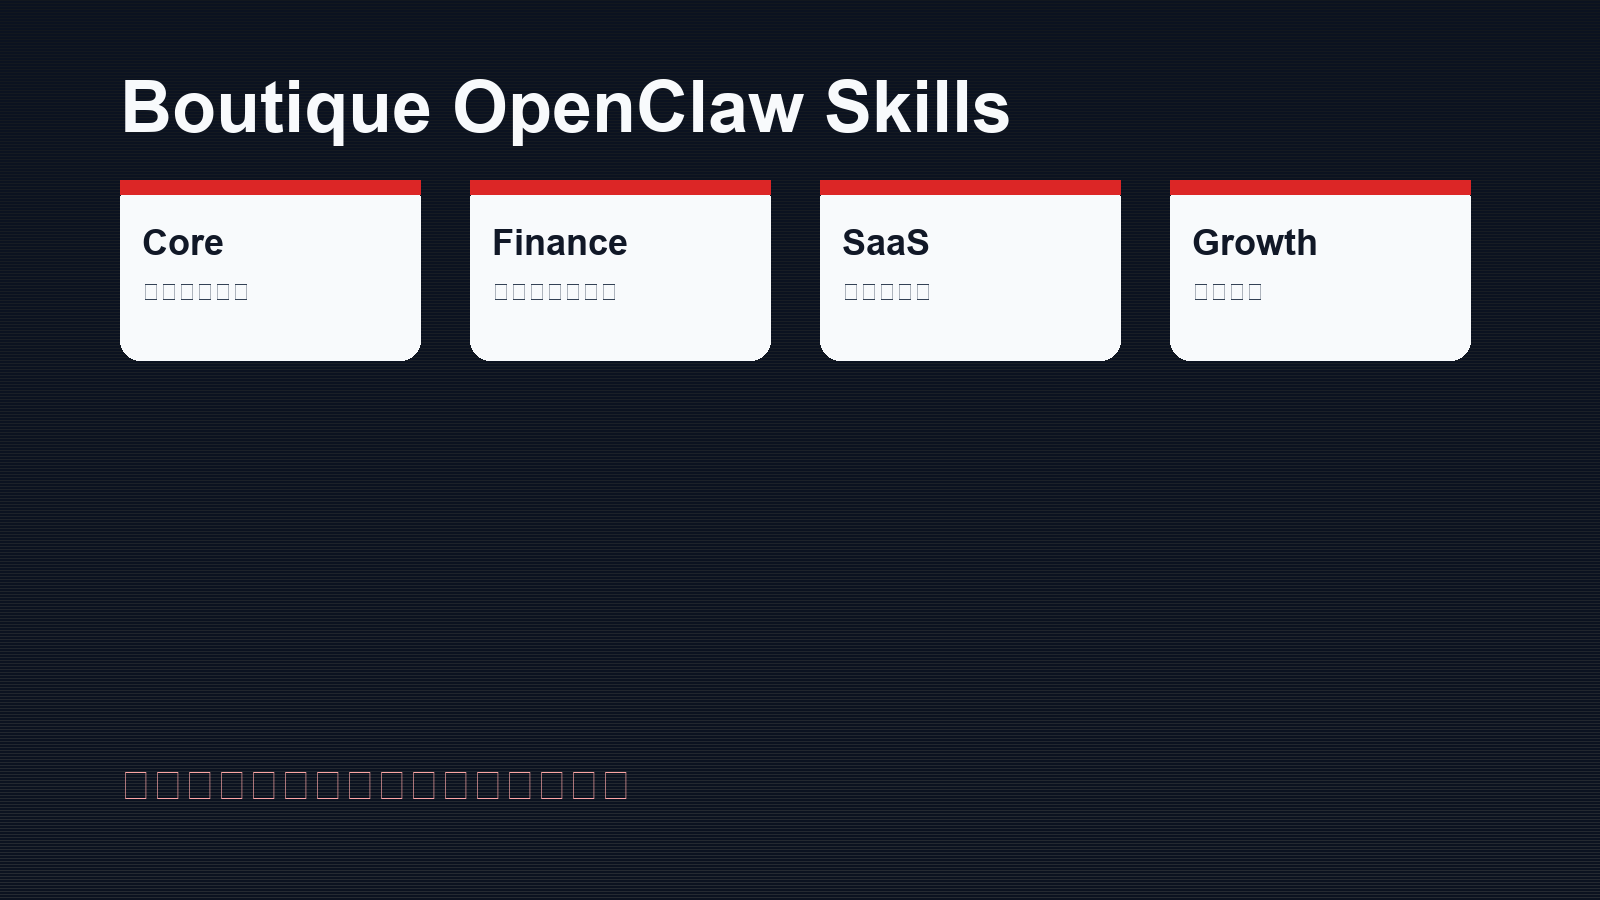
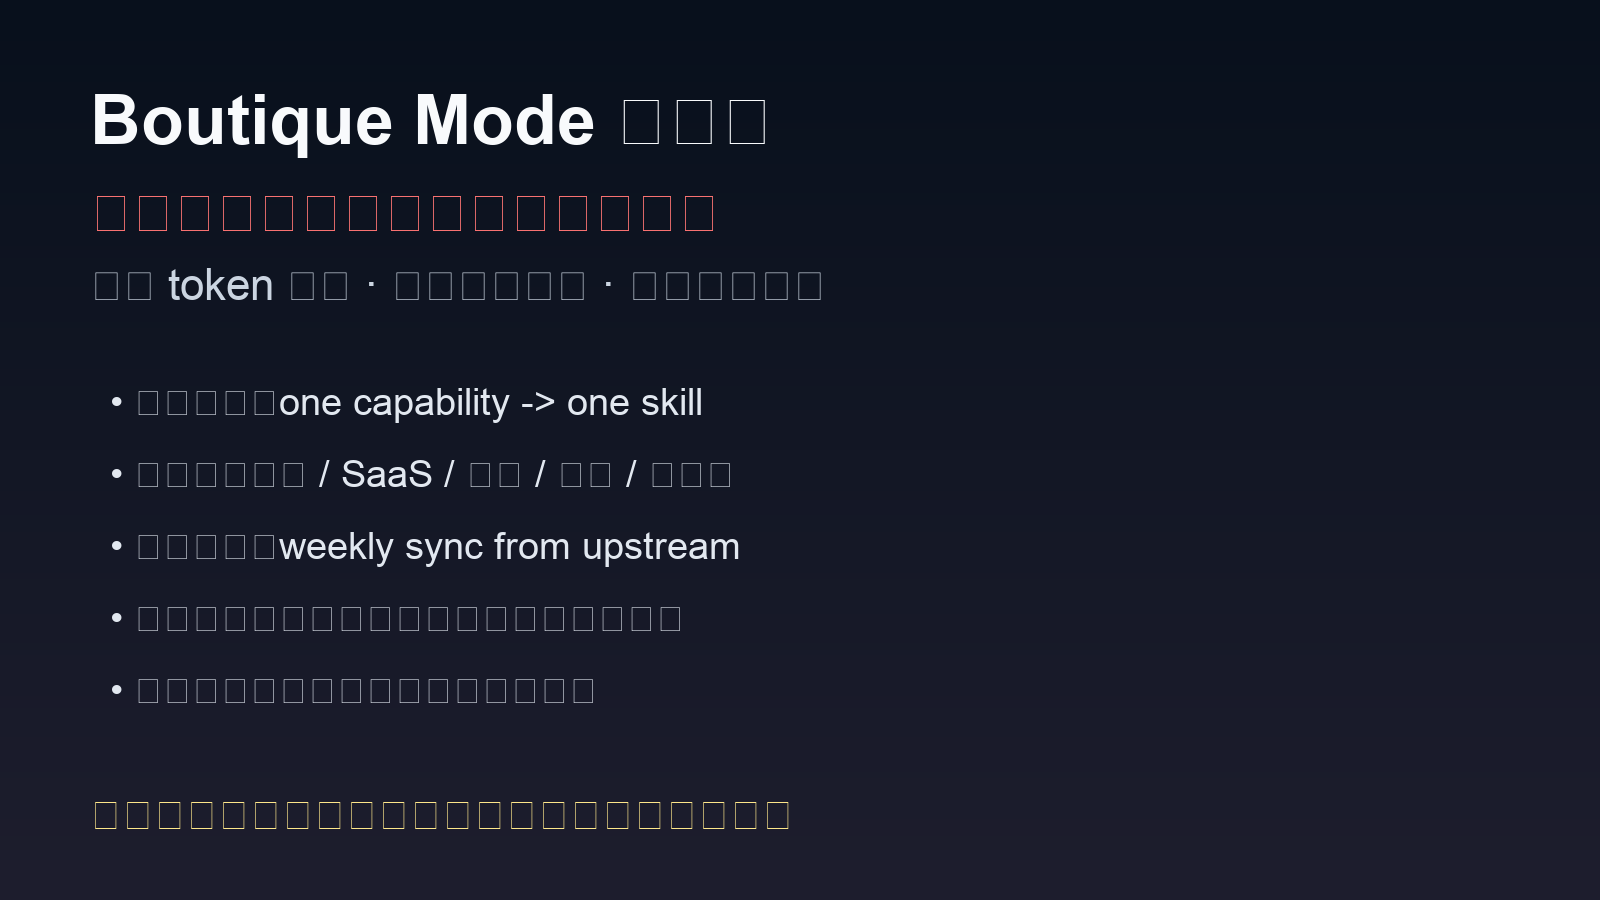
design: add pixel boutique+lobster branding and README quick nav

diff --git a/scripts/generate_assets.py b/scripts/generate_assets.py
@@ -7,10 +7,16 @@ ASSETS = ROOT / "assets"
 ASSETS.mkdir(parents=True, exist_ok=True)
 
 
-def font(size: int):
-    candidates = [
-        "/System/Library/Fonts/Supplemental/Arial Bold.ttf",
+def pick_font(size: int, bold: bool = False):
+    candidates = []
+    if bold:
+        candidates += [
+            "/System/Library/Fonts/Supplemental/Arial Bold.ttf",
+            "/System/Library/Fonts/Supplemental/Helvetica.ttc",
+        ]
+    candidates += [
         "/System/Library/Fonts/Supplemental/Arial.ttf",
+        "/System/Library/Fonts/Supplemental/Menlo.ttc",
         "/System/Library/Fonts/SFNS.ttf",
     ]
     for c in candidates:
@@ -23,79 +29,176 @@ def font(size: int):
     return ImageFont.load_default()
 
 
-def draw_logo_png():
-    w, h = 1200, 420
-    img = Image.new("RGB", (w, h), "#0f172a")
+def draw_pixels(draw: ImageDraw.ImageDraw, ox: int, oy: int, scale: int, cells, color: str):
+    for x, y in cells:
+        draw.rectangle((ox + x * scale, oy + y * scale, ox + (x + 1) * scale - 1, oy + (y + 1) * scale - 1), fill=color)
+
+
+def boutique_shop_cells():
+    cells = {}
+    # building frame
+    frame = []
+    for x in range(2, 18):
+        frame += [(x, 4), (x, 15)]
+    for y in range(5, 15):
+        frame += [(2, y), (17, y)]
+    cells["#f8fafc"] = frame
+
+    # roof stripe
+    roof = [(x, 3) for x in range(1, 19)] + [(x, 2) for x in range(3, 17)]
+    cells["#ef4444"] = roof
+
+    # door
+    door = [(8, y) for y in range(10, 15)] + [(9, y) for y in range(10, 15)] + [(10, y) for y in range(10, 15)] + [(11, y) for y in range(10, 15)]
+    cells["#0f172a"] = door
+
+    # window + sign
+    win = [(4, 8), (5, 8), (4, 9), (5, 9), (14, 8), (15, 8), (14, 9), (15, 9)]
+    cells["#38bdf8"] = win
+    sign = [(6, 6), (7, 6), (8, 6), (9, 6), (10, 6), (11, 6), (12, 6)]
+    cells["#fde047"] = sign
+    return cells
+
+
+def lobster_cells():
+    cells = {}
+    body = []
+    # head + body
+    for x in range(8, 20):
+        for y in range(8, 18):
+            if (x + y) % 7 != 0:
+                body.append((x, y))
+    # tail
+    tail = [(20,10),(21,11),(22,12),(20,15),(21,14),(22,13)]
+    # claws
+    claws = [(4,7),(5,6),(6,5),(4,8),(5,9),(3,8),(2,9),(1,10),(6,10),(7,11),(8,12),(5,11)]
+    # legs
+    legs = [(9,18),(10,19),(11,18),(12,19),(13,18),(14,19),(15,18),(16,19),(17,18),(18,19)]
+    # antenna
+    antenna = [(8,7),(7,6),(6,5),(5,4),(4,3),(9,7),(10,6),(11,5),(12,4),(13,3)]
+
+    cells["#dc2626"] = body + tail + claws + legs + antenna
+    cells["#7f1d1d"] = [(9,9),(10,10),(11,11),(15,12),(16,13),(18,14),(19,15)]
+    cells["#fca5a5"] = [(12,9),(13,9),(14,9),(15,9),(13,13),(14,13)]
+    cells["#ffffff"] = [(10,8),(17,8)]
+    cells["#111827"] = [(10,8),(17,8)]
+    return cells
+
+
+def draw_logo():
+    w, h = 1600, 520
+    img = Image.new("RGB", (w, h), "#0b1020")
     d = ImageDraw.Draw(img)
 
-    # background bands
-    d.rectangle((0, 0, w, h), fill="#0b1020")
-    d.rectangle((0, h - 90, w, h), fill="#111827")
+    # subtle stripes
+    for y in range(0, h, 4):
+        c = 12 + int((y / h) * 18)
+        d.line((0, y, w, y), fill=(c, c + 4, c + 10))
 
-    # icon box
-    d.rounded_rectangle((60, 70, 290, 300), radius=36, fill="#f8fafc")
-    d.rectangle((95, 105, 255, 135), fill="#dc2626")
-    d.rectangle((95, 160, 255, 190), fill="#0f172a")
-    d.rectangle((95, 215, 255, 245), fill="#0f172a")
+    # pixel boutique shop
+    scale = 12
+    for color, pts in boutique_shop_cells().items():
+        draw_pixels(d, 80, 120, scale, pts, color)
 
-    # title
-    d.text((340, 95), "boutique-openclaw-skills", font=font(54), fill="#f8fafc")
-    d.text((344, 176), "ONE CAPABILITY  •  ONE SKILL", font=font(30), fill="#f87171")
-    d.text((344, 236), "精选店模式 / 稳定优先 / 定期审计", font=font(28), fill="#cbd5e1")
+    # big lobster
+    l_scale = 14
+    for color, pts in lobster_cells().items():
+        draw_pixels(d, 860, 95, l_scale, pts, color)
 
-    img.save(ASSETS / "logo.png", format="PNG")
+    d.text((360, 122), "BOUTIQUE OPENCLAW SKILLS", font=pick_font(58, bold=True), fill="#f8fafc")
+    d.text((360, 200), "精选店模式  |  一功能一技能  |  稳定优先", font=pick_font(38, bold=True), fill="#f87171")
+    d.text((360, 258), "NO DUPLICATE SKILLS  ·  NO TOKEN WASTE  ·  AUDITED WEEKLY", font=pick_font(30), fill="#cbd5e1")
+    d.text((360, 320), "主题：精品店 + 大龙虾（像素风）", font=pick_font(30), fill="#fde68a")
+
+    # footer line
+    d.rectangle((0, 450, w, h), fill="#111827")
+    d.text((48, 470), "github.com/leecyno1/boutique-openclaw-skills", font=pick_font(28), fill="#93c5fd")
+
+    img.save(ASSETS / "logo.png", "PNG")
 
 
-def draw_hero_png():
+def draw_hero():
     w, h = 1600, 900
     img = Image.new("RGB", (w, h), "#0b1220")
     d = ImageDraw.Draw(img)
 
-    # subtle gradient stripes
-    for i in range(0, h, 3):
-        c = int(18 + (i / h) * 20)
-        d.line((0, i, w, i), fill=(c, c + 5, c + 12))
+    # gradient background
+    for y in range(h):
+        r = 8 + int((y / h) * 22)
+        g = 16 + int((y / h) * 14)
+        b = 28 + int((y / h) * 18)
+        d.line((0, y, w, y), fill=(r, g, b))
 
-    # cards
-    cards = [
-        (120, 180, 420, 360, "Core", "基础能力基线"),
-        (470, 180, 770, 360, "Finance", "金融研究与报告"),
-        (820, 180, 1120, 360, "SaaS", "研发与运维"),
-        (1170, 180, 1470, 360, "Growth", "营销增长"),
+    # promo text only, no boxes
+    d.text((90, 80), "Boutique Mode 宣传图", font=pick_font(70, bold=True), fill="#f8fafc")
+    d.text((90, 180), "只选一个最优技能，拒绝功能重叠", font=pick_font(56, bold=True), fill="#f87171")
+    d.text((90, 260), "减少 token 消耗 · 降低工具冲突 · 简化版本管理", font=pick_font(44), fill="#cbd5e1")
+
+    lines = [
+        "• 统一目录：one capability -> one skill",
+        "• 行业档：金融 / SaaS / 运营 / 咨询 / 创作者",
+        "• 自动更新：weekly sync from upstream",
+        "• 本地审计：风险模式、依赖缺失、能力冲突",
+        "• 稳定导向：可维护、可追踪、可复现",
     ]
-    for x1, y1, x2, y2, t, s in cards:
-        d.rounded_rectangle((x1, y1, x2, y2), radius=20, fill="#f8fafc")
-        d.rectangle((x1, y1, x2, y1 + 14), fill="#dc2626")
-        d.text((x1 + 22, y1 + 42), t, font=font(36), fill="#111827")
-        d.text((x1 + 22, y1 + 98), s, font=font(24), fill="#334155")
+    y = 380
+    for line in lines:
+        d.text((110, y), line, font=pick_font(38), fill="#e2e8f0")
+        y += 72
 
-    d.text((120, 66), "Boutique OpenClaw Skills", font=font(72), fill="#f8fafc")
-    d.text((120, 760), "精选而非堆叠：去重、审计、可维护", font=font(42), fill="#fca5a5")
+    d.text((90, 790), "少即是多：把复杂度放在编排层，而不是对话层。", font=pick_font(42, bold=True), fill="#fde68a")
 
-    img.save(ASSETS / "hero.png", format="PNG")
+    img.save(ASSETS / "hero.png", "PNG")
 
 
-def draw_logo_svg():
-    svg = '''<svg xmlns="http://www.w3.org/2000/svg" width="1200" height="420" viewBox="0 0 1200 420">
-  <rect width="1200" height="420" fill="#0b1020"/>
-  <rect x="0" y="330" width="1200" height="90" fill="#111827"/>
-  <rect x="60" y="70" width="230" height="230" rx="36" fill="#f8fafc"/>
-  <rect x="95" y="105" width="160" height="30" fill="#dc2626"/>
-  <rect x="95" y="160" width="160" height="30" fill="#0f172a"/>
-  <rect x="95" y="215" width="160" height="30" fill="#0f172a"/>
-  <text x="340" y="150" fill="#f8fafc" font-size="54" font-family="Arial, Helvetica, sans-serif">boutique-openclaw-skills</text>
-  <text x="344" y="205" fill="#f87171" font-size="30" font-family="Arial, Helvetica, sans-serif">ONE CAPABILITY • ONE SKILL</text>
-  <text x="344" y="255" fill="#cbd5e1" font-size="28" font-family="Arial, Helvetica, sans-serif">精选店模式 / 稳定优先 / 定期审计</text>
+def draw_quick_nav():
+    w, h = 1600, 820
+    img = Image.new("RGB", (w, h), "#f8fafc")
+    d = ImageDraw.Draw(img)
+
+    d.rectangle((0, 0, w, 108), fill="#0f172a")
+    d.text((48, 28), "Repository Quick Navigation", font=pick_font(54, bold=True), fill="#f8fafc")
+
+    rows = [
+        "README: 项目总览与安装入口",
+        "catalog/skills.json: 精选目录（唯一能力映射）",
+        "profiles/: 行业安装档",
+        "scripts/install-profile.sh: 一键安装某行业档",
+        "scripts/sync-upstream.sh: 上游更新 + 本地审计",
+        "scripts/audit_skills.py: 风险扫描与依赖检查",
+        ".github/workflows/sync-audit.yml: 定时更新流水线",
+        "docs/CURATION_POLICY.md: 精选策略",
+        "docs/UPDATE_AND_AUDIT.md: 运维SOP",
+    ]
+
+    y = 150
+    for row in rows:
+        d.text((60, y), f"- {row}", font=pick_font(38), fill="#1e293b")
+        y += 68
+
+    d.text((60, 740), "精品店模式：每个功能只保留一个 skill，减少混乱并提升可靠性。", font=pick_font(34, bold=True), fill="#dc2626")
+
+    img.save(ASSETS / "profiles.png", "PNG")
+
+
+def draw_svg():
+    svg = '''<svg xmlns="http://www.w3.org/2000/svg" width="1600" height="520" viewBox="0 0 1600 520">
+  <rect width="1600" height="520" fill="#0b1020"/>
+  <rect x="0" y="450" width="1600" height="70" fill="#111827"/>
+  <text x="360" y="160" fill="#f8fafc" font-size="58" font-family="Arial, Helvetica, sans-serif">BOUTIQUE OPENCLAW SKILLS</text>
+  <text x="360" y="220" fill="#f87171" font-size="38" font-family="Arial, Helvetica, sans-serif">精选店模式 | 一功能一技能 | 稳定优先</text>
+  <text x="360" y="275" fill="#cbd5e1" font-size="30" font-family="Arial, Helvetica, sans-serif">NO DUPLICATE SKILLS · NO TOKEN WASTE · AUDITED WEEKLY</text>
+  <text x="360" y="325" fill="#fde68a" font-size="30" font-family="Arial, Helvetica, sans-serif">像素风主题：精品店 + 大龙虾</text>
 </svg>
 '''
     (ASSETS / "logo.svg").write_text(svg, encoding="utf-8")
 
 
 if __name__ == "__main__":
-    draw_logo_png()
-    draw_hero_png()
-    draw_logo_svg()
-    print("generated assets:")
-    print(ASSETS / "logo.png")
-    print(ASSETS / "hero.png")
-    print(ASSETS / "logo.svg")
+    draw_logo()
+    draw_hero()
+    draw_quick_nav()
+    draw_svg()
+    print("generated:")
+    for name in ["logo.png", "hero.png", "profiles.png", "logo.svg"]:
+        print(ASSETS / name)

diff --git a/README.md b/README.md
@@ -4,6 +4,30 @@
 ![Boutique Hero](assets/hero.png)
 ![Profiles Matrix](assets/profiles.png)
 
+## 仓库参数（Repository Parameters）
+
+| 参数 | 值 |
+|---|---|
+| Curation 模式 | One Capability = One Skill |
+| 精选能力数 | 42 |
+| 行业档数量 | 7 |
+| 更新策略 | 每周上游同步（可手动触发） |
+| 审计策略 | 更新后本地审计（风险/依赖/冲突） |
+| 打包格式 | `dist/*.tar.gz` |
+| 目标 | 降低 token 浪费，减少技能冲突，提升稳定性 |
+
+## 快捷导航（Quick Navigation）
+
+- [快速开始](#2-快速开始)
+- [行业档（Profiles）](#3-行业档profiles)
+- [更新与审计机制](#5-更新与审计机制)
+- [安全与质量原则](#6-安全与质量原则)
+- [打包发布](#7-打包发布)
+- [设计说明](#8-设计说明)
+- [精选策略文档](docs/CURATION_POLICY.md)
+- [更新与审计SOP](docs/UPDATE_AND_AUDIT.md)
+- [行业映射说明](docs/INDUSTRY_MAP.md)
+
 **精选店模式（Boutique Mode）** 的 OpenClaw skills 集合：
 
 - 每个功能只精选 1 个 skill（不重复、不混装）
